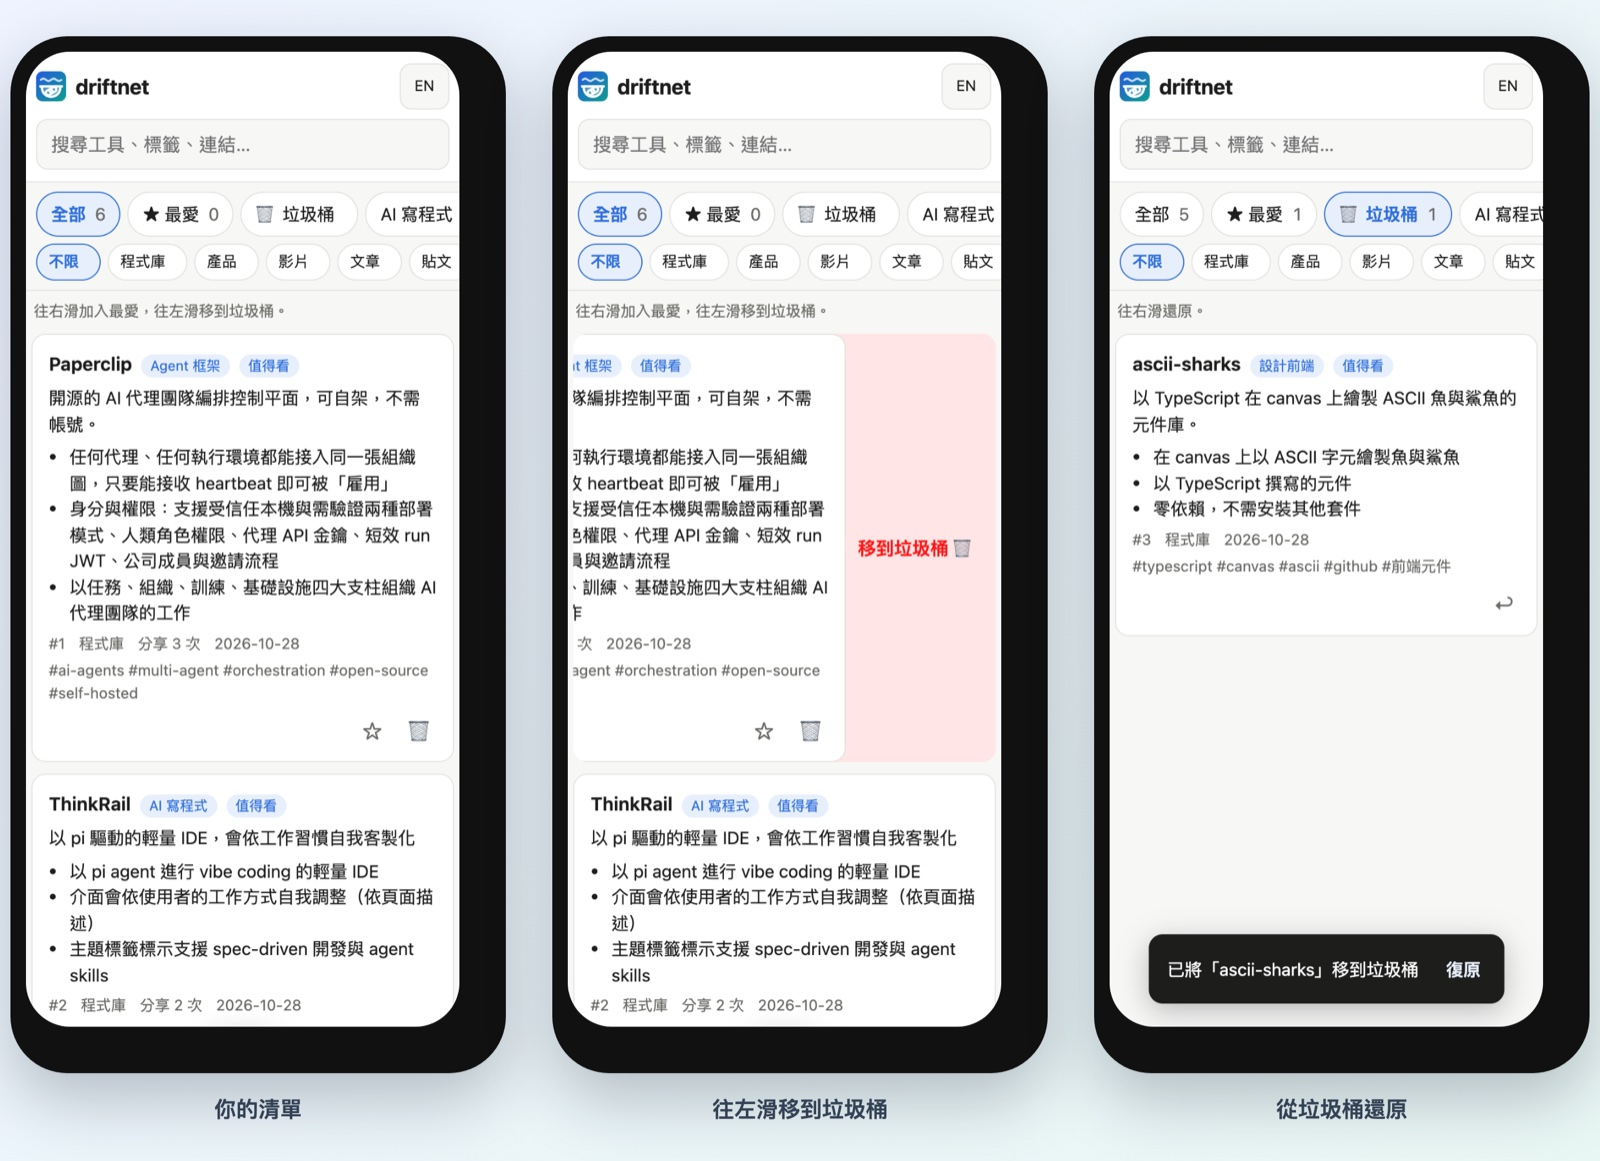
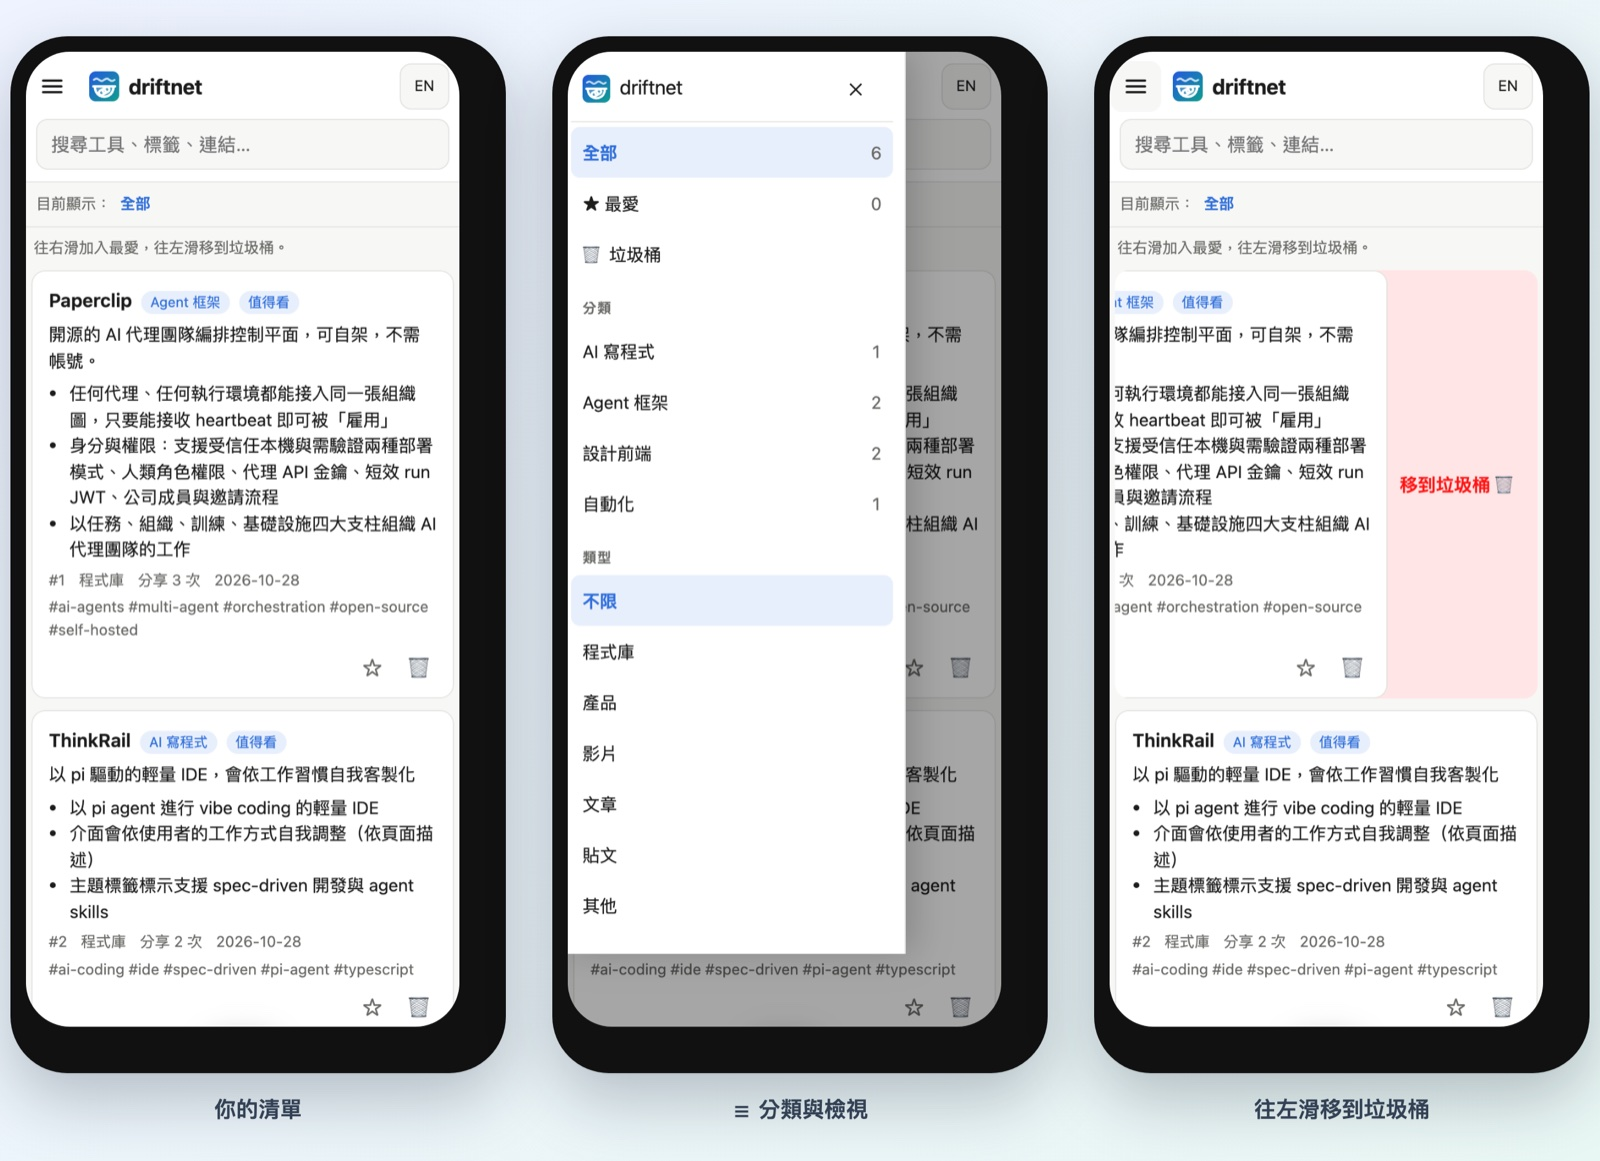
[IMP] phones: the sidebar becomes a ☰ drawer
The two rows of chips under the search box were cramped. On phones the
sidebar is now a drawer behind a ☰ button (scrim, ✕, Escape, closes after a
pick), and a line under the search box says what is shown and opens the
drawer. Focus moves into the drawer only when it was opened with the
keyboard. e2e covers opening, closing four ways and the line updating;
README phone screenshots now show list, drawer and swipe.

Claude-Session: https://claude.ai/code/session_01DiqM31RotdT7g4WSGPaMtt

diff --git a/apps/server/public/index.html b/apps/server/public/index.html
@@ -45,6 +45,15 @@
   nav .count { color: var(--muted); font-variant-numeric: tabular-nums; font-weight: 400; }
   nav h2 { font-size: 12px; text-transform: uppercase; letter-spacing: .06em; color: var(--muted); margin: 16px 10px 6px; }
 
+  .menu { display: none; width: 44px; height: 44px; margin: -4px 0 -4px -8px; border: 0; border-radius: 10px; background: none; cursor: pointer;
+          place-items: center; color: var(--text); }
+  .menu:hover, .menu:focus-visible { background: var(--bg); }
+  .scrim, .drawer-head, .crumb { display: none; }
+  .drawer-head { align-items: center; justify-content: space-between; padding: 2px 4px 10px 10px; margin-bottom: 4px; border-bottom: 1px solid var(--line); }
+  .drawer-head .brand { font-size: 17px; }
+  .crumb { align-items: center; gap: 8px; width: 100%; border: 0; border-bottom: 1px solid var(--line); background: var(--bg); color: var(--muted);
+           font-size: 13px; padding: 9px 16px; text-align: left; cursor: pointer; }
+  .crumb b { color: var(--accent); font-weight: 600; }
   main { padding: 16px 20px 48px; display: grid; gap: 12px; align-content: start; }
   .hint { color: var(--muted); font-size: 13px; margin: -4px 2px 0; }
 
@@ -95,30 +104,40 @@
     .lang { margin-left: auto; }
     .search { order: 3; flex-basis: 100%; max-width: none; margin: 0; font-size: 16px; /* 16px: iOS doesn't zoom in */ }
     .layout { grid-template-columns: 1fr; }
-    nav { position: static; background: var(--bg); border: 0; border-bottom: 1px solid var(--line);
-          max-height: none; padding: 8px 0; display: grid; gap: 6px; }
-    nav h2 { display: none; }
-    nav .row { display: flex; overflow-x: auto; gap: 6px; padding: 0 16px; scrollbar-width: none; }
-    nav .row::-webkit-scrollbar { display: none; }
-    nav button { width: auto; white-space: nowrap; padding: 7px 12px; border: 1px solid var(--line); border-radius: 99px; background: var(--panel); min-height: 36px; }
-    nav button[aria-pressed="true"] { border-color: var(--accent); }
-    nav .kinds button { font-size: 13px; min-height: 32px; padding: 4px 10px; }
+    /* The sidebar becomes a drawer behind the ☰ button. */
+    .menu { display: grid; }
+    nav { position: fixed; top: 0; bottom: 0; left: 0; z-index: 10; width: min(300px, 84vw); max-height: none; border-right: 1px solid var(--line);
+          background: var(--panel); padding: max(12px, env(safe-area-inset-top)) 10px calc(20px + env(safe-area-inset-bottom));
+          transform: translateX(-102%); visibility: hidden; box-shadow: 8px 0 30px rgba(0,0,0,.18);
+          transition: transform .25s ease, visibility 0s linear .25s; /* hide only after sliding out */ }
+    body.menu-open nav { transform: none; visibility: visible; transition: transform .25s ease; }
+    body.menu-open { overflow: hidden; }
+    .scrim { display: block; position: fixed; inset: 0; z-index: 9; background: rgba(0,0,0,.35); opacity: 0; pointer-events: none; transition: opacity .25s ease; }
+    body.menu-open .scrim { opacity: 1; pointer-events: auto; }
+    .drawer-head { display: flex; }
+    nav button { min-height: 44px; }
+    .crumb { display: flex; }
     main { padding: 12px 12px calc(40px + env(safe-area-inset-bottom)); gap: 10px; }
     .card { padding: 13px 14px; }
     .top { padding-right: 0; }
     .tools { position: static; justify-content: flex-end; margin: 4px -6px -8px 0; }
     .card ul { padding-left: 18px; }
   }
-  @media (prefers-reduced-motion: reduce) { .card, .swipe, .toast { transition: none; } }
+  @media (prefers-reduced-motion: reduce) { .card, .swipe, .toast, nav, .scrim { transition: none; } }
 </style>
 </head>
 <body>
 <header>
+  <button id="menu" class="menu" type="button" aria-controls="nav" aria-expanded="false">
+    <svg width="22" height="22" viewBox="0 0 22 22" aria-hidden="true"><path d="M3 6h16M3 11h16M3 16h16" stroke="currentColor" stroke-width="2" stroke-linecap="round"/></svg>
+  </button>
   <h1 class="brand"><img src="/favicon.svg" alt="" width="26" height="26">driftnet</h1>
   <span class="stats" id="stats"></span>
   <input id="q" class="search" type="search" enterkeyhint="search">
   <button id="lang" class="lang" type="button"></button>
 </header>
+<button id="crumb" class="crumb" type="button" aria-controls="nav"></button>
+<div class="scrim" id="scrim"></div>
 <div class="layout">
   <nav id="nav"></nav>
   <main id="list" aria-live="polite"></main>
@@ -140,7 +159,7 @@
       swipeFav: "☆ Favorite", swipeUnfav: "★ Unfavorite", swipeTrash: "Remove 🗑", swipeRestore: "↩ Restore",
       removed: (n) => `“${n}” moved to the trash`, restored: (n) => `“${n}” restored`, faved: (n) => `★ “${n}” added to favorites`,
       undo: "Undo", tokenPrompt: "This catalogue is private. Enter its token (DRIFTNET_TOKEN).", tokenSave: "Open",
-      failed: "Couldn't save — check your connection.",
+      failed: "Couldn't save — check your connection.", menu: "Menu", close: "Close menu", showing: "Showing:",
     },
     "zh-TW": {
       search: "搜尋工具、標籤、連結…", all: "全部", favorites: "最愛", trash: "垃圾桶", any: "不限",
@@ -156,7 +175,7 @@
       swipeFav: "☆ 加入最愛", swipeUnfav: "★ 移出最愛", swipeTrash: "移到垃圾桶 🗑", swipeRestore: "↩ 還原",
       removed: (n) => `已將「${n}」移到垃圾桶`, restored: (n) => `已還原「${n}」`, faved: (n) => `★ 已將「${n}」加入最愛`,
       undo: "復原", tokenPrompt: "這份清單是私人的，請輸入 token（DRIFTNET_TOKEN）。", tokenSave: "開啟",
-      failed: "沒有存成功，請檢查網路。",
+      failed: "沒有存成功，請檢查網路。", menu: "選單", close: "關閉選單", showing: "目前顯示：",
     },
   };
   const state = { view: "all", category: "", kind: "", q: "" };
@@ -200,6 +219,32 @@
     $("q").setAttribute("aria-label", T().search);
     $("lang").textContent = T().switchTo;
     $("nav").setAttribute("aria-label", T().nav);
+    $("menu").setAttribute("aria-label", T().menu);
+  }
+
+  // ── Drawer (phones) ──────────────────────────────────────────────────────
+  const isDrawer = () => matchMedia("(max-width: 720px)").matches;
+  /** keyboard: move focus into the drawer and back (a tap doesn't need the focus ring). */
+  function setMenu(open, keyboard = false) {
+    document.body.classList.toggle("menu-open", open);
+    $("menu").setAttribute("aria-expanded", String(open));
+    if (!keyboard) return;
+    if (open) $("nav").querySelector('[aria-pressed="true"]')?.focus({ preventScroll: true });
+    else if (isDrawer()) $("menu").focus({ preventScroll: true });
+  }
+  // event.detail is 0 for a click made with the keyboard (Enter / Space).
+  $("menu").onclick = (e) => setMenu(!document.body.classList.contains("menu-open"), e.detail === 0);
+  $("crumb").onclick = (e) => setMenu(true, e.detail === 0);
+  $("scrim").onclick = () => setMenu(false);
+  addEventListener("keydown", (e) => { if (e.key === "Escape" && document.body.classList.contains("menu-open")) setMenu(false, true); });
+
+  /** One line under the header saying what is shown, so a closed drawer hides nothing. */
+  function updateCrumb() {
+    const t = T();
+    const parts = [state.view === "favorites" ? `★ ${t.favorites}` : state.view === "trash" ? `🗑 ${t.trash}` : t.all];
+    if (state.category) parts.push(catLabel(state.category));
+    if (state.kind) parts.push(t.kinds[state.kind] ?? state.kind);
+    $("crumb").innerHTML = `${esc(t.showing)} <b>${esc(parts.join(" · "))}</b>`;
   }
 
   async function load() {
@@ -221,6 +266,8 @@
       `<button type="button" data-field="${field}" data-value="${esc(key)}" aria-pressed="${state[field] === key}">
          <span>${esc(label)}</span><span class="count">${n ?? ""}</span></button>`;
     $("nav").innerHTML =
+      `<div class="drawer-head"><span class="brand"><img src="/favicon.svg" alt="" width="24" height="24">driftnet</span>` +
+      `<button type="button" class="menu" id="menu-close" aria-label="${esc(T().close)}">✕</button></div>` +
       `<div class="row">` +
       btn("view", "all", T().all, stats.items) + btn("view", "favorites", `★ ${T().favorites}`, stats.favorites) +
       btn("view", "trash", `🗑 ${T().trash}`, stats.trash || "") +
@@ -231,17 +278,20 @@
     $("nav").onclick = (e) => {
       const b = e.target.closest("button");
       if (!b) return;
+      if (b.id === "menu-close") return setMenu(false);
       const { field, value } = b.dataset;
       // Choosing a category stays inside the current view; choosing a view clears the category.
       if (field === "view") state.category = "";
       state[field] = field !== "view" && state[field] === value ? "" : value;
-      $("nav").querySelectorAll("button").forEach((x) => x.setAttribute("aria-pressed", state[x.dataset.field] === x.dataset.value));
+      $("nav").querySelectorAll("button[data-field]").forEach((x) => x.setAttribute("aria-pressed", state[x.dataset.field] === x.dataset.value));
+      if (isDrawer()) setMenu(false);
       render();
     };
     render();
   }
 
   async function render() {
+    updateCrumb();
     const p = new URLSearchParams({ limit: "300" });
     if (state.view !== "all") p.set("view", state.view);
     for (const k of ["category", "kind", "q"]) if (state[k]) p.set(k, state[k]);

diff --git a/README.zh-TW.md b/README.zh-TW.md
@@ -87,9 +87,10 @@ curl -X POST localhost:8787/api/chat -H 'content-type: application/json' \
 
 ### 網頁
 
-<p align="center"><img src="assets/phone-zh-TW.jpg" alt="driftnet 在手機上：清單、一張卡片往左滑向垃圾桶、垃圾桶和復原提示" width="100%"></p>
+<p align="center"><img src="assets/phone-zh-TW.jpg" alt="driftnet 在手機上：清單、☰ 側邊欄（檢視與分類）、一張卡片往左滑向垃圾桶" width="100%"></p>
 
-每個連結都會整理到一個網頁上，可以搜尋、依分類和類型篩選，手機也能開。
+每個連結都會整理到一個網頁上，可以搜尋、依分類和類型篩選，手機也能開。在手機上，側邊欄會收進左上角的 ☰，
+搜尋框下方有一行字告訴你現在看的是哪個分類。
 
 - **往右滑**加入最愛，**往左滑**移到垃圾桶；滑太短不會觸發，上下捲動也不會被當成滑動。電腦上可以按 ☆ 和 🗑，或用滑鼠拖曳。
 - 剛移除時可以馬上按**復原**，之後也能隨時從**垃圾桶**還原。移到垃圾桶的連結，agent 和 `/llms.txt` 也看不到；如果有人再次分享，它會自動回來。

diff --git a/README.md b/README.md
@@ -95,9 +95,10 @@ where to read it on the web page. Want the summary in the chat instead, or no re
 
 ### The web page
 
-<p align="center"><img src="assets/phone-en.jpg" alt="driftnet on a phone: the catalogue, a card being swiped left to the trash, and the trash with an undo prompt" width="100%"></p>
+<p align="center"><img src="assets/phone-en.jpg" alt="driftnet on a phone: the catalogue, the ☰ drawer with views and shelves, and a card being swiped left to the trash" width="100%"></p>
 
-Every link lands on a page you can search, filter by shelf and kind, and open from a phone.
+Every link lands on a page you can search, filter by shelf and kind, and open from a phone. On a
+phone the sidebar folds into a ☰ drawer, and a line under the search box says what you're looking at.
 
 - **Swipe right** to add a favorite, **swipe left** to move to the trash; a short swipe does nothing,
   and scrolling never counts as a swipe. On a computer, use ☆ and 🗑 or drag with the mouse.
